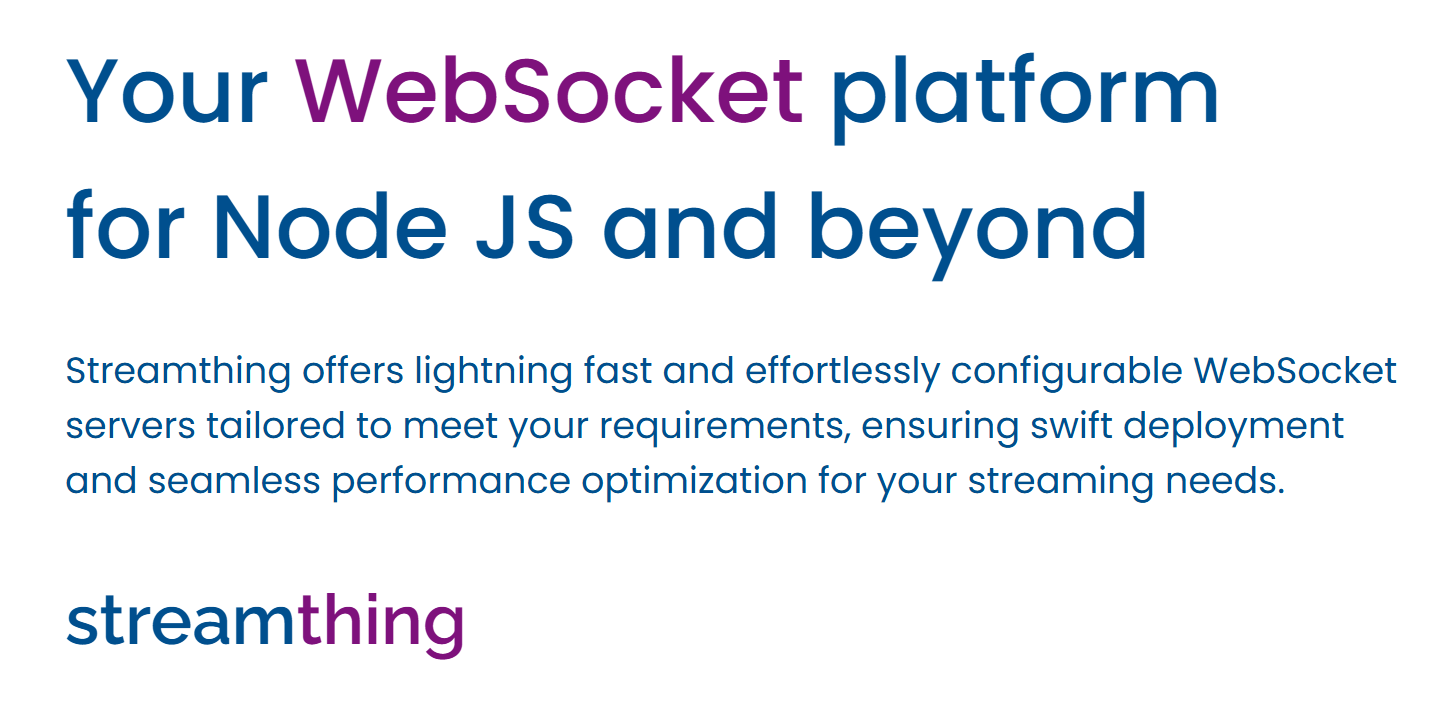
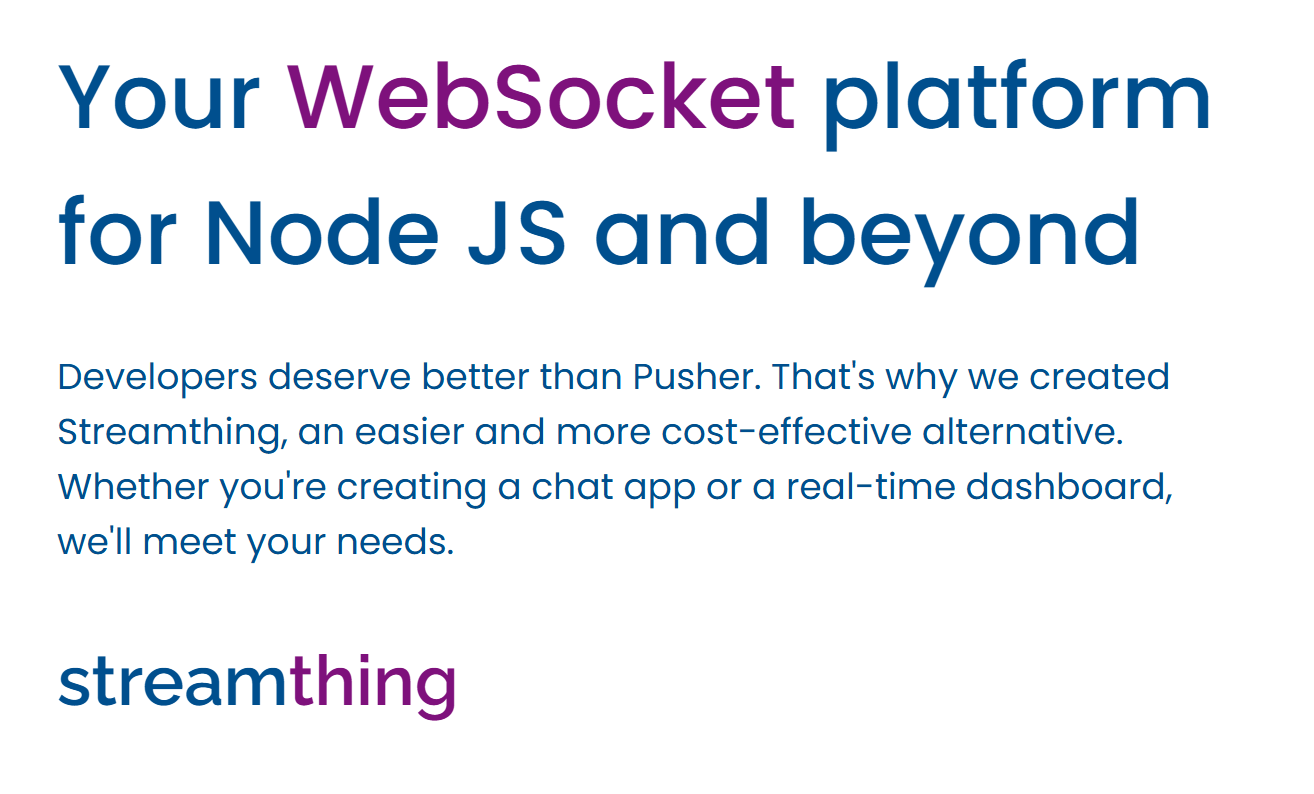
chore: update opengraph

diff --git a/app/(misc)/opengraph/page.tsx b/app/(misc)/opengraph/page.tsx
@@ -12,12 +12,12 @@ const Page = () => {
       </h1>
       <br />
       <p className={styles["small-description"]}>
-        <Balancer>
-          Streamthing offers lightning fast and effortlessly configurable
-          WebSocket servers tailored to meet your requirements, ensuring swift
-          deployment and seamless performance optimization for your streaming
-          needs.
-        </Balancer>
+        {/* <Balancer> */}
+        Developers deserve better than Pusher. That&apos;s why we created
+        Streamthing, an easier and more cost-effective alternative. Whether
+        you&apos;re creating a chat app or a real-time dashboard,
+        <br /> we&apos;ll meet your needs.
+        {/* </Balancer> */}
       </p>
       <TitleLink />
     </div>

diff --git a/scss/opengraph.module.scss b/scss/opengraph.module.scss
@@ -1,6 +1,6 @@
 .page {
   padding: 50px;
-  width: 75vw;
+  width: 49.5vw;
   h1 {
     font-size: 45px;
     font-weight: 500;
@@ -11,16 +11,13 @@
   }
 
   p {
-    font-size: 18.25px;
+    font-size: 18px;
   }
 
   a {
     width: fit-content;
+    margin-left: 0px !important;
     margin-top: 35px;
     font-size: 35px !important;
-
-    img {
-      margin-right: 10px !important;
-    }
   }
 }

diff --git a/styles/opengraph.module.css b/styles/opengraph.module.css
@@ -1,6 +1,6 @@
 .page {
   padding: 50px;
-  width: 75vw;
+  width: 49.5vw;
 }
 .page h1 {
   font-size: 45px;
@@ -10,13 +10,11 @@
   color: var(--accent-color-2);
 }
 .page p {
-  font-size: 18.25px;
+  font-size: 18px;
 }
 .page a {
   width: fit-content;
+  margin-left: 0px !important;
   margin-top: 35px;
   font-size: 35px !important;
-}
-.page a img {
-  margin-right: 10px !important;
 }
